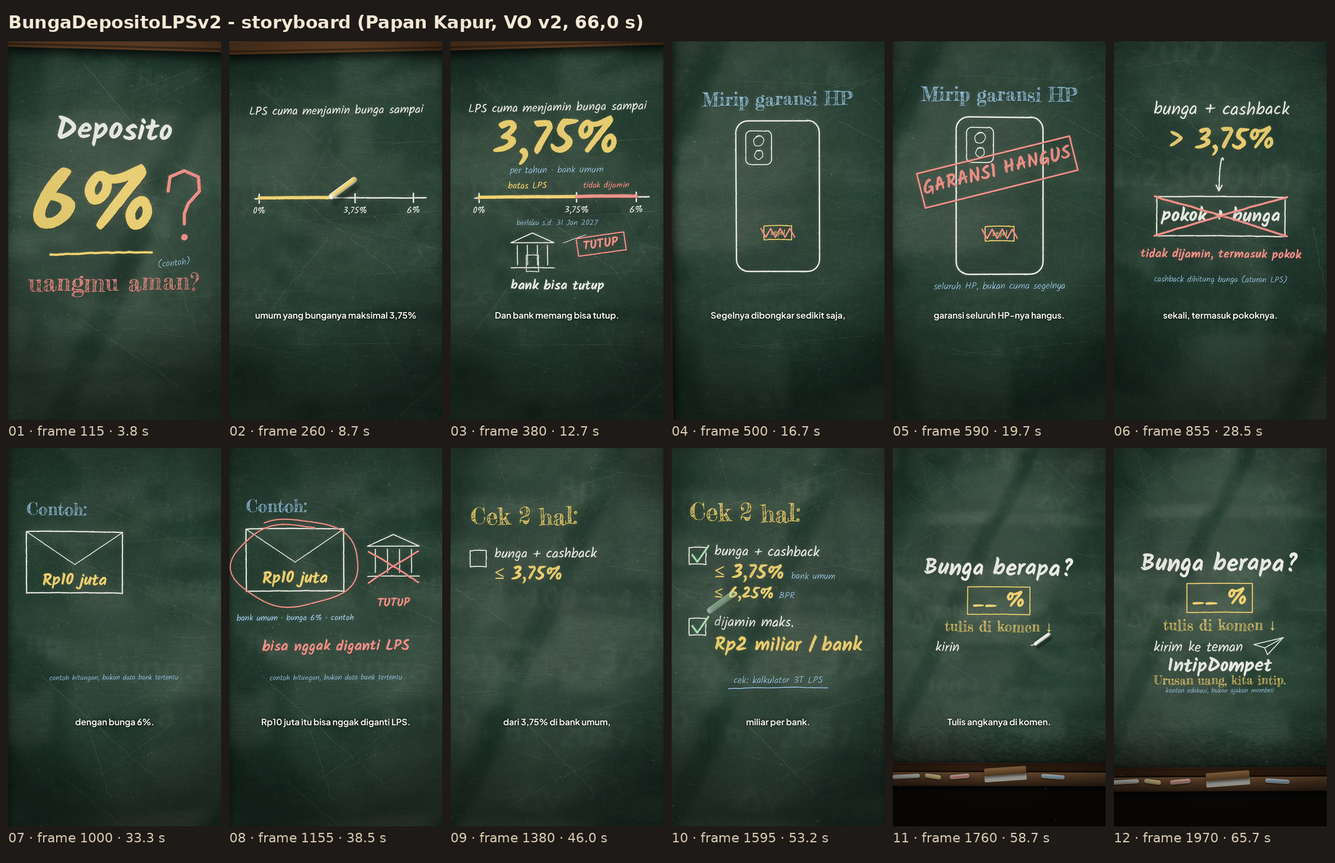
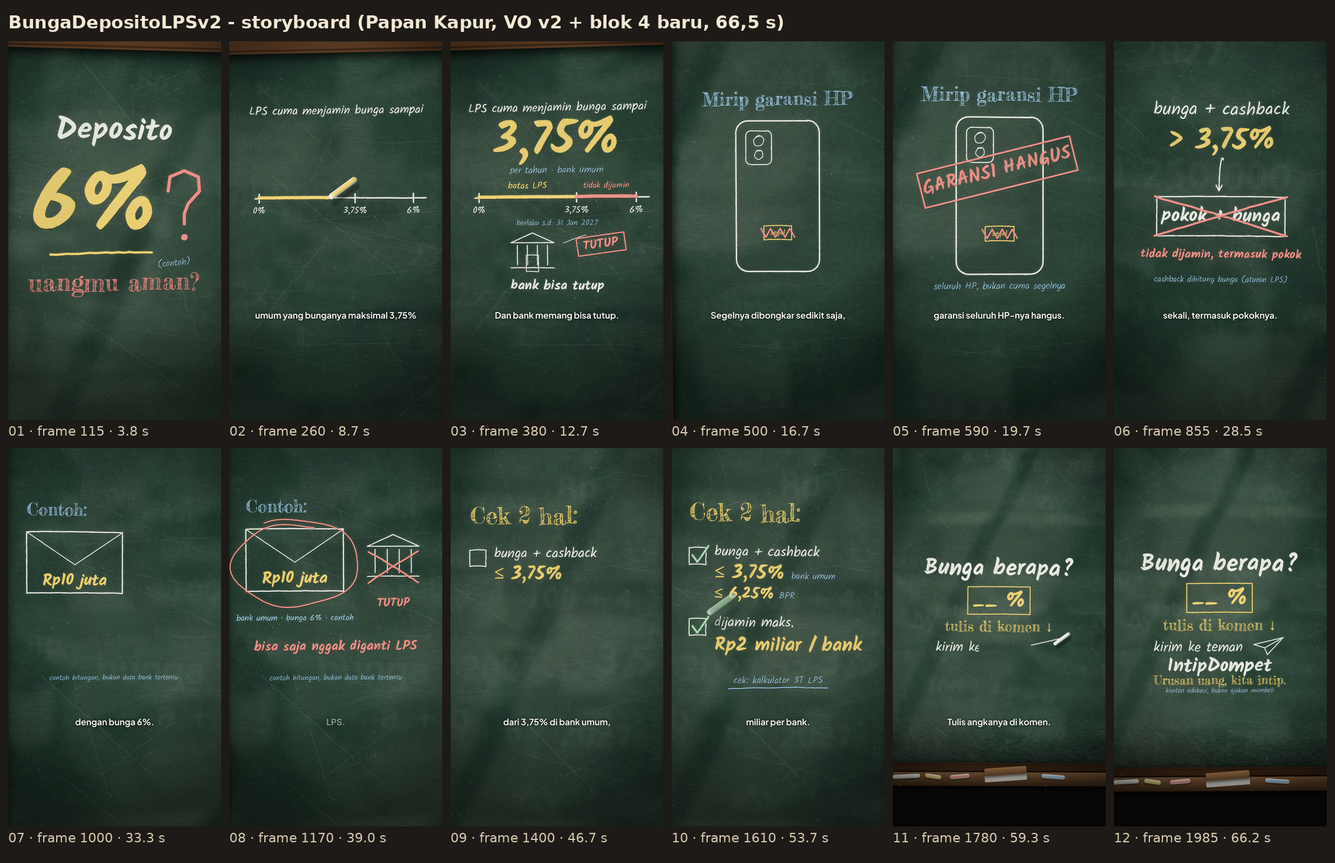
Storyboard v2 disinkron ulang ke VO blok 4 baru ("bisa saja nggak diganti")
- vo-waktu.json v2 dibuat ulang dari vo-waktu-v2.json terbaru (1cd0b7b).
- Teks papan, frasa sinkron, dan subtitel blok 4 mengikuti kata baru.
- Subtitel: potongan sangat pendek digabung ke potongan sebelumnya.
- storyboard-v2.png diperbarui (12 frame, 66,5 s).

Claude-Session: https://claude.ai/code/session_01KMbroAGncEDBsqPKKLLpNR

diff --git a/src/produksi/bunga-deposito-lps-v2/Video.tsx b/src/produksi/bunga-deposito-lps-v2/Video.tsx
@@ -236,8 +236,8 @@ const IsiPapan: React.FC = () => {
       <Coret pts={garis(E.x0 + 700, E.y0 + 620, E.x0 + 940, E.y0 + 470, 63, 3)} mulai={W(4, "tutup")} lama={6} warna={k.merah} tebal={8} kapur={false} />
       <Coret pts={garis(E.x0 + 700, E.y0 + 470, E.x0 + 940, E.y0 + 620, 64, 3)} mulai={W(4, "tutup") + 6} lama={6} warna={k.merah} tebal={8} kapur={false} />
       <Tulis x={E.x0 + 820} y={E.y0 + 720} teks="TUTUP" ukuran={56} gaya="tebal" warna={k.merah} mulai={W(4, "tutup", 0.1)} perHuruf={1.6} rata="center" />
-      <Coret pts={lingkaran(E.x0 + 345, E.y0 + 520, 300, 220, 8)} mulai={W(4, "bisa nggak")} lama={14} warna={k.merah} tebal={6} />
-      <Tulis x={E.x} y={E.y0 + 930} teks="bisa nggak diganti LPS" ukuran={70} gaya="tebal" warna={k.merah} mulai={W(4, "bisa nggak", 0.2)} perHuruf={1.3} rata="center" />
+      <Coret pts={lingkaran(E.x0 + 345, E.y0 + 520, 300, 220, 8)} mulai={W(4, "bisa saja")} lama={14} warna={k.merah} tebal={6} />
+      <Tulis x={E.x} y={E.y0 + 930} teks="bisa saja nggak diganti LPS" ukuran={64} gaya="tebal" warna={k.merah} mulai={W(4, "bisa saja", 0.2)} perHuruf={1.3} rata="center" />
       <Tulis x={E.x} y={E.y0 + 1080} teks="contoh hitungan, bukan data bank tertentu" ukuran={36} gaya="tipis" warna={k.biru} mulai={W(4, "Contohnya", 0.8)} perHuruf={0.6} rata="center" />
 
       {/* ===== F: solusi ===== */}
@@ -279,7 +279,7 @@ const TEKS_TAMPIL = [
   "LPS cuma menjamin simpanan di bank umum yang bunganya maksimal 3,75% setahun. Dan bank memang bisa tutup.",
   "Mirip garansi HP. Segelnya dibongkar sedikit saja, garansi seluruh HP-nya hangus.",
   "Simpanan juga begitu: bunga plus cashback-nya lewat batas, simpanan itu nggak dijamin sama sekali, termasuk pokoknya.",
-  "Contohnya, kamu taruh Rp10 juta di bank umum dengan bunga 6%. Kalau banknya tutup, Rp10 juta itu bisa nggak diganti LPS.",
+  "Contohnya, kamu taruh Rp10 juta di bank umum dengan bunga 6%. Kalau banknya tutup, Rp10 juta itu bisa saja nggak diganti LPS.",
   "Sebelum taruh uang, cek dua hal. Bunga plus cashback-nya nggak lebih dari 3,75% di bank umum, atau 6,25% di BPR. Dan yang dijamin cuma sampai Rp2 miliar per bank.",
   "Kamu pernah lihat deposito bunga berapa persen? Tulis angkanya di komen. Kirim ke teman yang lagi nyari deposito bunga tinggi.",
 ];

diff --git a/src/catatan/Jadwal.ts b/src/catatan/Jadwal.ts
@@ -178,6 +178,11 @@ const pecah = (teks: string, maks: number): string[] => {
         baris = w;
       } else baris = baris ? `${baris} ${w}` : w;
     }
+    // potongan sangat pendek (mis. "LPS.") digabung ke potongan sebelumnya supaya tidak berkedip sendirian
+    if (baris && baris.length < 12 && hasil.length && !/[.!?]$/.test(hasil[hasil.length - 1])) {
+      hasil[hasil.length - 1] = `${hasil[hasil.length - 1]} ${baris}`;
+      continue;
+    }
     if (baris) {
       // gabungkan potongan pendek dengan sebelumnya bila masih muat
       const akhir = hasil[hasil.length - 1];
